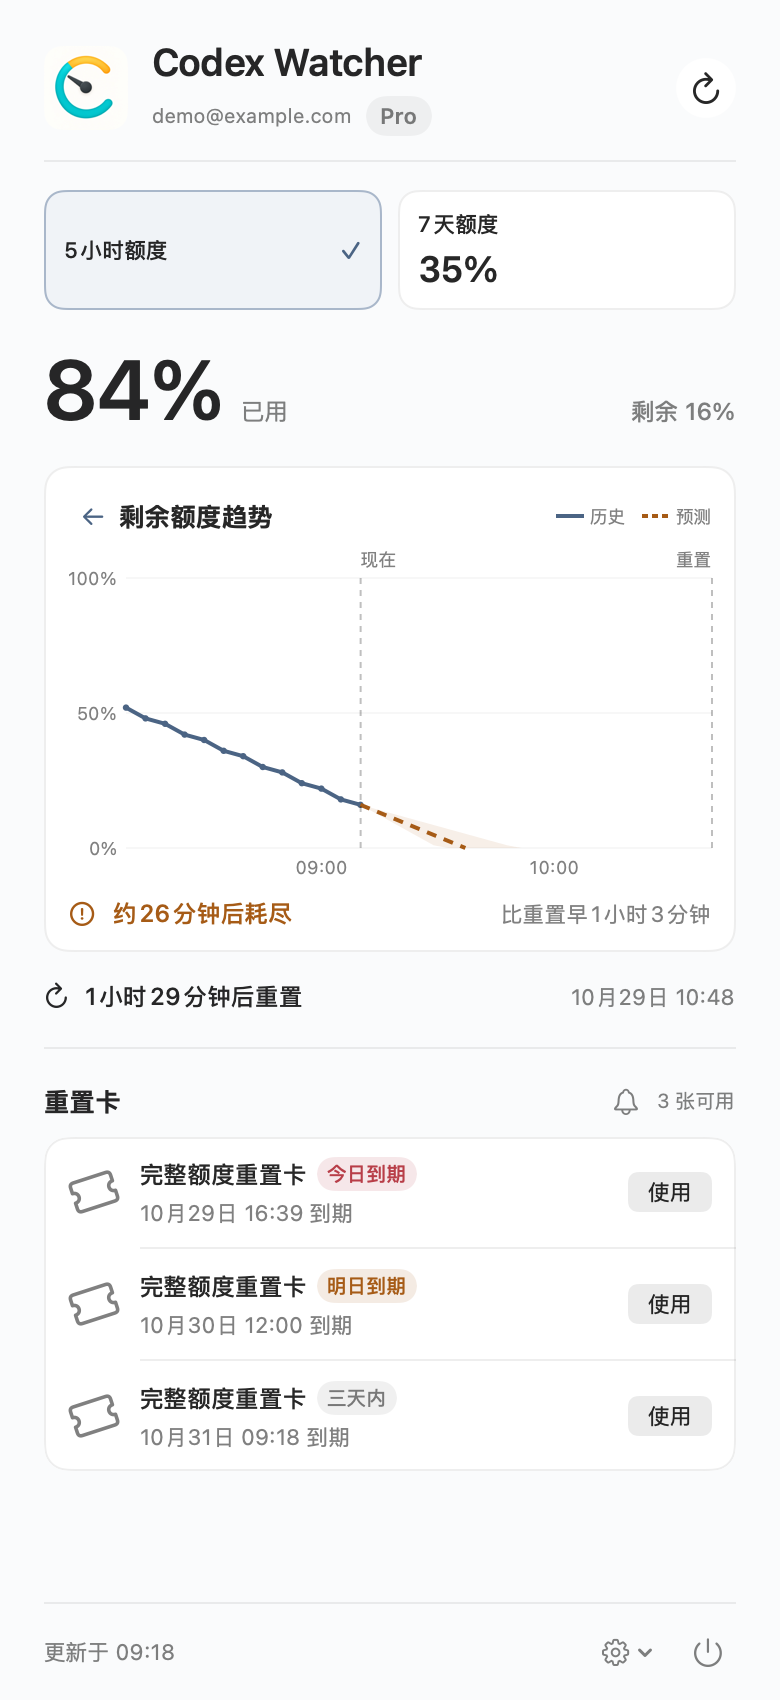
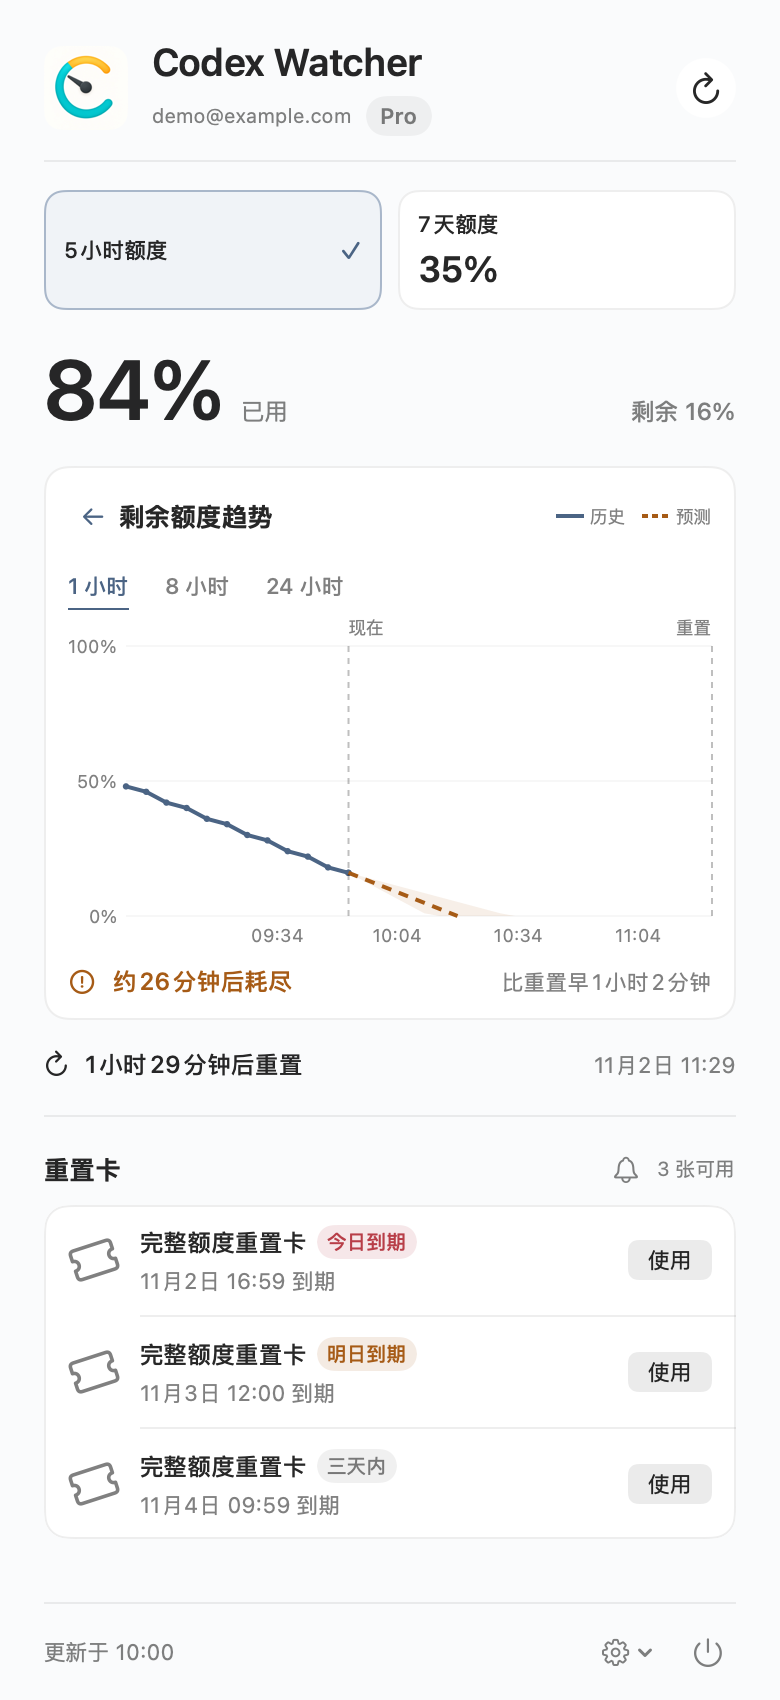
feat: add forecast lookback windows and prepare 0.4.6

diff --git a/CodexWatcher/StatusBarController.swift b/CodexWatcher/StatusBarController.swift
@@ -9,6 +9,8 @@ final class StatusBarController: NSObject, NSPopoverDelegate {
     private let updates: ReleaseUpdateChecker?
     private let openDashboard: () -> Void
     private let observesExternalEvents: Bool
+    private let viewDefaults: UserDefaults
+    private let smokeDefaultsName: String?
     private let item = NSStatusBar.system.statusItem(withLength: NSStatusItem.variableLength)
     private let popover = NSPopover()
     private var settingsWindow: NSWindow?
@@ -29,6 +31,15 @@ final class StatusBarController: NSObject, NSPopoverDelegate {
         self.updates = updates
         self.openDashboard = openDashboard
         self.observesExternalEvents = observesExternalEvents
+        if CommandLine.arguments.contains("--release-smoke-test") {
+            let name = "WatcherTrendSmoke-\(UUID())"
+            smokeDefaultsName = name
+            viewDefaults = UserDefaults(suiteName: name)!
+            viewDefaults.set(1, forKey: "trendForecastWindowHours")
+        } else {
+            smokeDefaultsName = nil
+            viewDefaults = .standard
+        }
         super.init()
         if let button = item.button {
             button.target = self
@@ -59,6 +70,7 @@ final class StatusBarController: NSObject, NSPopoverDelegate {
 
     func stop() {
         stopped = true
+        if let smokeDefaultsName { viewDefaults.removePersistentDomain(forName: smokeDefaultsName) }
         if let defaultsObserver { NotificationCenter.default.removeObserver(defaultsObserver) }
         defaultsObserver = nil
         stopDismissalMonitoring()
@@ -117,8 +129,8 @@ final class StatusBarController: NSObject, NSPopoverDelegate {
 
     // Popovers can disappear independently of SwiftUI's sheet lifecycle. Route every
     // modal action to an owned window so no invisible attached sheet can block clicks.
-    private func popoverContent(maximumHeight: CGFloat = 660) -> ContentView {
-        ContentView(monitor: monitor, updates: updates, dismissForUpdate: { [weak self] in self?.closePopover() }, openDashboard: openDashboard,
+    private func popoverContent(maximumHeight: CGFloat = 660) -> AnyView {
+        AnyView(ContentView(monitor: monitor, updates: updates, dismissForUpdate: { [weak self] in self?.closePopover() }, openDashboard: openDashboard,
             presentSettings: { [weak self] page in
                 switch page {
                 case .menuBar: self?.showSettings()
@@ -126,12 +138,13 @@ final class StatusBarController: NSObject, NSPopoverDelegate {
                 case .automaticHello: self?.showHelloSettings()
                 }
             }, presentReset: { [weak self] in self?.showReset($0) }, maximumHeight: maximumHeight)
+            .defaultAppStorage(viewDefaults))
     }
 
     private func showPopover(clearInitialFocus: Bool) {
         guard let button = item.button else { return }
         let availableHeight = max(280, (button.window?.screen?.visibleFrame.height ?? 760) - 48)
-        if let hosting = popover.contentViewController as? NSHostingController<ContentView> {
+        if let hosting = popover.contentViewController as? NSHostingController<AnyView> {
             hosting.rootView = popoverContent(maximumHeight: availableHeight)
         }
         clearFocusAfterMouseOpen = clearInitialFocus
@@ -377,6 +390,35 @@ final class StatusBarController: NSObject, NSPopoverDelegate {
               await waitFor({ probe("quota-progress") != nil && probe("quota-trend-return") == nil }),
               let restored = probe("quota-progress"), !restored.controlFocused, click(restored),
               await waitFor({ probe("quota-trend-return") != nil }) else { return fail() }
+        // Use real hit testing and Space events; preferences belong to a disposable suite.
+        guard let eight = probe("forecast-window-8"), click(eight),
+              await waitFor({ probe("forecast-window-8")?.controlSelected == true
+                  && self.viewDefaults.integer(forKey: "trendForecastWindowHours") == 8 }),
+              let day = probe("forecast-window-24") else { return fail() }
+        day.requestControlFocus?()
+        guard await waitFor({ probe("forecast-window-24")?.controlFocused == true }) else { return fail() }
+        try? await Task.sleep(for: .milliseconds(200))
+        guard space(), await waitFor({ probe("forecast-window-24")?.controlSelected == true
+            && self.viewDefaults.integer(forKey: "trendForecastWindowHours") == 24 }),
+              let smokeDefaultsName, viewDefaults.synchronize() else { return fail() }
+        let persisted = Process()
+        let output = Pipe()
+        persisted.executableURL = URL(fileURLWithPath: "/usr/bin/defaults")
+        persisted.arguments = ["read", smokeDefaultsName, "trendForecastWindowHours"]
+        persisted.standardOutput = output
+        do { try persisted.run() } catch { return fail() }
+        persisted.waitUntilExit()
+        guard persisted.terminationStatus == 0,
+              String(data: output.fileHandleForReading.readDataToEndOfFile(), encoding: .utf8)?
+                .trimmingCharacters(in: .whitespacesAndNewlines) == "24" else { return fail() }
+        closePopover()
+        showPopover(clearInitialFocus: true)
+        guard await waitFor({ probe("quota-progress") != nil }),
+              let reopened = probe("quota-progress"), click(reopened),
+              await waitFor({ probe("forecast-window-24")?.controlSelected == true }),
+              let hour = probe("forecast-window-1"), click(hour),
+              await waitFor({ probe("forecast-window-1")?.controlSelected == true }) else { return fail() }
+        FileHandle.standardError.write(Data("Forecast windows: click, keyboard Space, persisted preference and reopen passed\n".utf8))
         closePopover()
         // This open simulates keyboard use. Do not race its explicit focus request
         // against the delegate's deferred mouse-open focus clearing on CI desktops.

diff --git a/CodexWatcher/UsageTrendView.swift b/CodexWatcher/UsageTrendView.swift
@@ -9,20 +9,24 @@ struct UsageTrendView: View {
     let storageFailed: Bool
     var recoveredHistory = false
     var headerTitle: AnyView? = nil
+    @State private var hoveringWindow: UsageTrendWindow?
+    @FocusState private var focusedWindow: UsageTrendWindow?
+    @AppStorage("trendForecastWindowHours") private var forecastWindowHours = UsageTrendWindow.hour.rawValue
     @Environment(\.locale) private var locale
     @Environment(\.timeZone) private var timeZone
     @Environment(\.colorScheme) private var colorScheme
     private var palette: AppPalette { AppPalette(dark: colorScheme == .dark) }
     private var format: PresentationFormat { PresentationFormat(locale: locale, timeZone: timeZone) }
+    private var forecastWindow: UsageTrendWindow { UsageTrendWindow(rawValue: forecastWindowHours) ?? .hour }
     private var history: [UsageTrendSample] {
         samples.filter { $0.reset == quota.resetDate }
     }
     private var forecast: UsageTrendForecast? {
         guard !stale, quota.usedPercent.isFinite, (0...100).contains(quota.usedPercent),
               let last = history.last, abs(last.remaining - (100 - quota.usedPercent)) < 0.001 else { return nil }
-        return UsageTrend.forecast(samples: history, at: date)
+        return UsageTrend.forecast(samples: history, at: date, window: forecastWindow)
     }
-    private var start: Date { history.first?.date ?? date.addingTimeInterval(-3600) }
+    private var start: Date { history.first?.date ?? date.addingTimeInterval(-forecastWindow.lookback) }
     private var end: Date { max(quota.resetDate ?? date, date.addingTimeInterval(60)) }
 
     var body: some View {
@@ -37,6 +41,40 @@ struct UsageTrendView: View {
                 legend("历史", color: palette.accent, dashed: false)
                 legend("预测", color: palette.warning, dashed: true)
             }
+            HStack(spacing: 18) {
+                ForEach(UsageTrendWindow.allCases, id: \.rawValue) { window in
+                    Button {
+                        forecastWindowHours = window.rawValue
+                    } label: {
+                        Text(L10n.text(window.title, locale: locale))
+                            .font(.system(size: 11, weight: .medium))
+                            .padding(.vertical, 5)
+                            .foregroundStyle(forecastWindow == window || hoveringWindow == window ? palette.accent : .secondary)
+                            .overlay(alignment: .bottom) {
+                                Rectangle().fill(forecastWindow == window ? palette.accent : .clear).frame(height: 1)
+                            }
+                            .contentShape(Rectangle())
+                    }
+                    .buttonStyle(.plain)
+                    .focusable()
+                    .focused($focusedWindow, equals: window)
+                    .onKeyPress(.space, phases: .down) { _ in
+                        forecastWindowHours = window.rawValue
+                        return .handled
+                    }
+                    .onHover { hoveringWindow = $0 ? window : nil }
+                    .accessibilityAddTraits(forecastWindow == window ? .isSelected : [])
+                    .background {
+                        if CommandLine.arguments.contains("--release-smoke-test") {
+                            UsageInteractionAnchor(name: "forecast-window-\(window.rawValue)",
+                                focused: focusedWindow == window,
+                                requestFocus: { focusedWindow = window }, selected: forecastWindow == window)
+                        }
+                    }
+                }
+            }
+            .accessibilityElement(children: .contain)
+            .accessibilityLabel("预测窗口")
             Chart {
                 ForEach(Array(history.enumerated()), id: \.offset) { _, sample in
                     LineMark(x: .value("时间", sample.date), y: .value("剩余额度", sample.remaining),
@@ -120,7 +158,7 @@ struct UsageTrendView: View {
         .padding(12)
         .background(palette.surface, in: RoundedRectangle(cornerRadius: 12))
         .overlay(RoundedRectangle(cornerRadius: 12).strokeBorder(palette.separator))
-        .help("按近一小时用量估算，阴影反映消耗速度差异，仅供参考。")
+        .help(L10n.text("按最近\(L10n.text(forecastWindow.title, locale: locale))内的可用采样估算，阴影反映消耗速度差异，仅供参考。", locale: locale))
     }
 
     private var summaryLabel: some View {

diff --git a/Tests/UsageTrendTests.swift b/Tests/UsageTrendTests.swift
@@ -68,6 +68,47 @@ final class UsageTrendTests: XCTestCase {
         XCTAssertNil(UsageTrend.forecast(samples: samples(70), at: now.addingTimeInterval(10000)))
     }
 
+    func testForecastWindowsUseDifferentLookbackRanges() throws {
+        let segment = UUID()
+        let reset = now.addingTimeInterval(7 * 86400)
+        let samples = stride(from: -26 * 60, through: 0, by: 5).map { minute -> UsageTrendSample in
+            let age = -Double(minute) / 60
+            let remaining: Double
+            if age <= 1 { remaining = 60 + age * 10 }
+            else if age <= 8 { remaining = 70 + (age - 1) * 2 }
+            else { remaining = 84 + (age - 8) * 0.5 }
+            return UsageTrendSample(date: now.addingTimeInterval(Double(minute * 60)),
+                                    remaining: remaining, reset: reset, segment: segment)
+        }
+        let hour = try XCTUnwrap(UsageTrend.forecast(samples: samples, at: now, window: .hour))
+        let eight = try XCTUnwrap(UsageTrend.forecast(samples: samples, at: now, window: .eightHours))
+        let day = try XCTUnwrap(UsageTrend.forecast(samples: samples, at: now, window: .day))
+        XCTAssertEqual(hour.rate * 3600, 10, accuracy: 0.00001)
+        XCTAssertGreaterThan(hour.rate, eight.rate)
+        XCTAssertGreaterThan(eight.rate, day.rate)
+        let withinDay = samples.filter { $0.date >= now.addingTimeInterval(-86400) }
+        XCTAssertEqual(day.rate, try XCTUnwrap(UsageTrend.forecast(samples: withinDay, at: now, window: .day)).rate)
+        XCTAssertEqual(hour.rate, try XCTUnwrap(UsageTrend.forecast(samples: samples, at: now)).rate)
+    }
+
+    func testAllForecastWindowsRespectSegmentsResetAndFreshness() throws {
+        let segment = UUID()
+        let reset = now.addingTimeInterval(7 * 86400)
+        let current = [(-600.0, 62.0), (-300, 61), (0, 60)].map {
+            UsageTrendSample(date: now.addingTimeInterval($0.0), remaining: $0.1, reset: reset, segment: segment)
+        }
+        let unrelated = [
+            UsageTrendSample(date: now.addingTimeInterval(-1800), remaining: 100, reset: reset, segment: UUID()),
+            UsageTrendSample(date: now.addingTimeInterval(-900), remaining: 99, reset: reset.addingTimeInterval(3600), segment: segment)
+        ]
+        for window in UsageTrendWindow.allCases {
+            let forecast = try XCTUnwrap(UsageTrend.forecast(samples: unrelated + current, at: now, window: window))
+            XCTAssertEqual(forecast.rate * 3600, 12, accuracy: 0.00001)
+            XCTAssertNil(UsageTrend.forecast(samples: Array(current.suffix(2)), at: now, window: window))
+            XCTAssertNil(UsageTrend.forecast(samples: current, at: now.addingTimeInterval(601), window: window))
+        }
+    }
+
     func testInvalidReadingsAndFrequentRefreshesDoNotCreateSamples() throws {
         try withStore { store, _ in
             _ = try store.record(account: "a", windows: [window(20)], at: now)

diff --git a/scripts/DocumentationPreview.swift b/scripts/DocumentationPreview.swift
@@ -25,6 +25,7 @@ struct DocumentationPreview {
             try? FileManager.default.removeItem(at: temporary)
         }
         defaults.set(false, forKey: "privacyMode")
+        defaults.set(1, forKey: "trendForecastWindowHours")
         let executable = temporary.appendingPathComponent("fake-codex")
         let script = #"""
         #!/bin/sh
@@ -100,7 +101,7 @@ struct DocumentationPreview {
         }
         for dark in [false, true] {
             try await render(UsageTrendView(samples: monitor.trendHistory["codex.primary"] ?? [],
-                quota: shortQuota, date: Date(), stale: false, storageFailed: false).padding(16),
+                quota: shortQuota, date: Date(), stale: false, storageFailed: false).defaultAppStorage(defaults).padding(16),
                 size: NSSize(width: 390, height: 330), dark: dark,
                 to: output.appendingPathComponent(dark ? "usage-trend-dark.png" : "usage-trend-light.png"))
         }
@@ -114,7 +115,7 @@ struct DocumentationPreview {
         for width in [390, 350, 280] {
             try await render(UsageTrendView(samples: longSamples,
                 quota: QuotaWindow(usedPercent: 30, windowDurationMins: 10080, resetsAt: longReset.timeIntervalSince1970),
-                date: Date(timeIntervalSince1970: now), stale: false, storageFailed: false).padding(16),
+                date: Date(timeIntervalSince1970: now), stale: false, storageFailed: false).defaultAppStorage(defaults).padding(16),
                 size: NSSize(width: width, height: 300), dark: true,
                 to: output.appendingPathComponent("usage-trend-long-summary-\(width).png"))
         }

diff --git a/CodexWatcher/UsageTrend.swift b/CodexWatcher/UsageTrend.swift
@@ -117,14 +117,25 @@ struct UsageTrendForecast {
     }
 }
 
-enum UsageTrend {
-    static let lookback: TimeInterval = 3600
+enum UsageTrendWindow: Int, CaseIterable {
+    case hour = 1, eightHours = 8, day = 24
 
-    static func forecast(samples: [UsageTrendSample], at date: Date) -> UsageTrendForecast? {
+    var lookback: TimeInterval { Double(rawValue) * 3600 }
+    var title: String.LocalizationValue {
+        switch self {
+        case .hour: return "1 小时"
+        case .eightHours: return "8 小时"
+        case .day: return "24 小时"
+        }
+    }
+}
+
+enum UsageTrend {
+    static func forecast(samples: [UsageTrendSample], at date: Date, window: UsageTrendWindow = .hour) -> UsageTrendForecast? {
         guard let last = samples.last, last.date <= date, date.timeIntervalSince(last.date) <= 600,
               last.reset > date, last.remaining > 0 else { return nil }
         let recent = samples.filter {
-            $0.segment == last.segment && $0.reset == last.reset && $0.date >= last.date.addingTimeInterval(-lookback)
+            $0.segment == last.segment && $0.reset == last.reset && $0.date >= last.date.addingTimeInterval(-window.lookback)
                 && $0.date <= last.date && $0.remaining.isFinite && (0...100).contains($0.remaining)
         }
         guard recent.count >= 3, let first = recent.first,

diff --git a/CodexWatcher/ContentView.swift b/CodexWatcher/ContentView.swift
@@ -752,16 +752,19 @@ struct UsageInteractionAnchor: NSViewRepresentable {
     let name: String
     let focused: Bool
     let requestFocus: () -> Void
+    var selected = false
     func makeNSView(context: Context) -> UsageInteractionProbe { UsageInteractionProbe() }
     func updateNSView(_ view: UsageInteractionProbe, context: Context) {
         view.identifier = NSUserInterfaceItemIdentifier(name)
         view.controlFocused = focused
+        view.controlSelected = selected
         view.requestControlFocus = requestFocus
     }
 }
 
 final class UsageInteractionProbe: NSView {
     var controlFocused = false
+    var controlSelected = false
     var requestControlFocus: (() -> Void)?
     override func hitTest(_ point: NSPoint) -> NSView? { nil }
 }

diff --git a/docs/images/README.md b/docs/images/README.md
@@ -12,7 +12,7 @@
 | [dashboard-progress-hover-dark.png](dashboard-progress-hover-dark.png) | 全宽进度轴与悬停热区（暗色） |
 | [dashboard-trend-full-light.png](dashboard-trend-full-light.png) | 点击进度区域切换后的趋势视图与重置卡，点击左侧标题返回（亮色，拉高窗口展示） |
 | [dashboard-trend-full-dark.png](dashboard-trend-full-dark.png) | 切换后的趋势视图（暗色，拉高窗口展示） |
-| [usage-trend-light.png](usage-trend-light.png) | 剩余额度历史、走势范围与预测耗尽时间（亮色） |
+| [usage-trend-light.png](usage-trend-light.png) | 剩余额度历史、1/8/24 小时窗口切换与预测耗尽时间（亮色） |
 | [usage-trend-dark.png](usage-trend-dark.png) | 剩余额度历史与预测（暗色） |
 | [usage-trend-summary-row.png](usage-trend-summary-row.png) | 长时长预测摘要在 350 点宽度下单行展示；[英文预览](en/usage-trend-summary-row.png) |
 | [dashboard-pro-short-only.png](dashboard-pro-short-only.png) | Pro 仅返回短周期额度，不显示 7 天窗口 |

diff --git a/CHANGELOG.md b/CHANGELOG.md
@@ -2,6 +2,10 @@
 
 ## 未发布
 
+## 0.4.6 — 2026-11-02
+
+- 趋势预测以轻量文字选项切换 1 小时、8 小时和 24 小时回看窗口并保存选择，保留当前额度周期的完整历史曲线；仅使用所选范围内同一连续段的可用采样，不跨额度恢复或采样中断预测；补充窗口点击、空格切换、配置持久化与重开恢复的隔离检查。
+
 ## 0.4.5 — 2026-10-29
 
 - 关于窗口增加 GitHub 与更多作品单行链接；统一两个设置菜单的入口，并将本地构建默认版本校准为 0.4.5，关于窗口继续读取应用自身版本。
